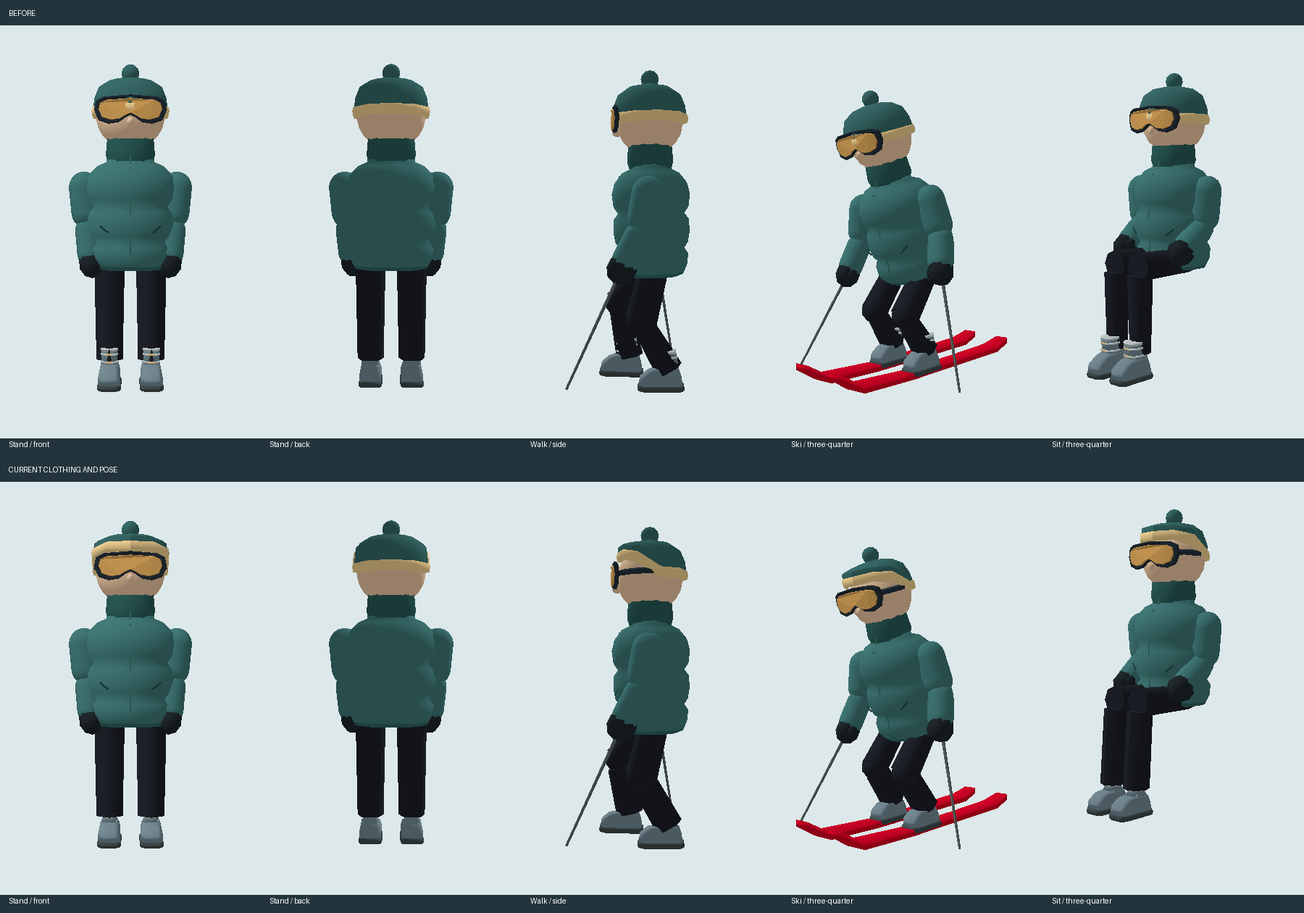
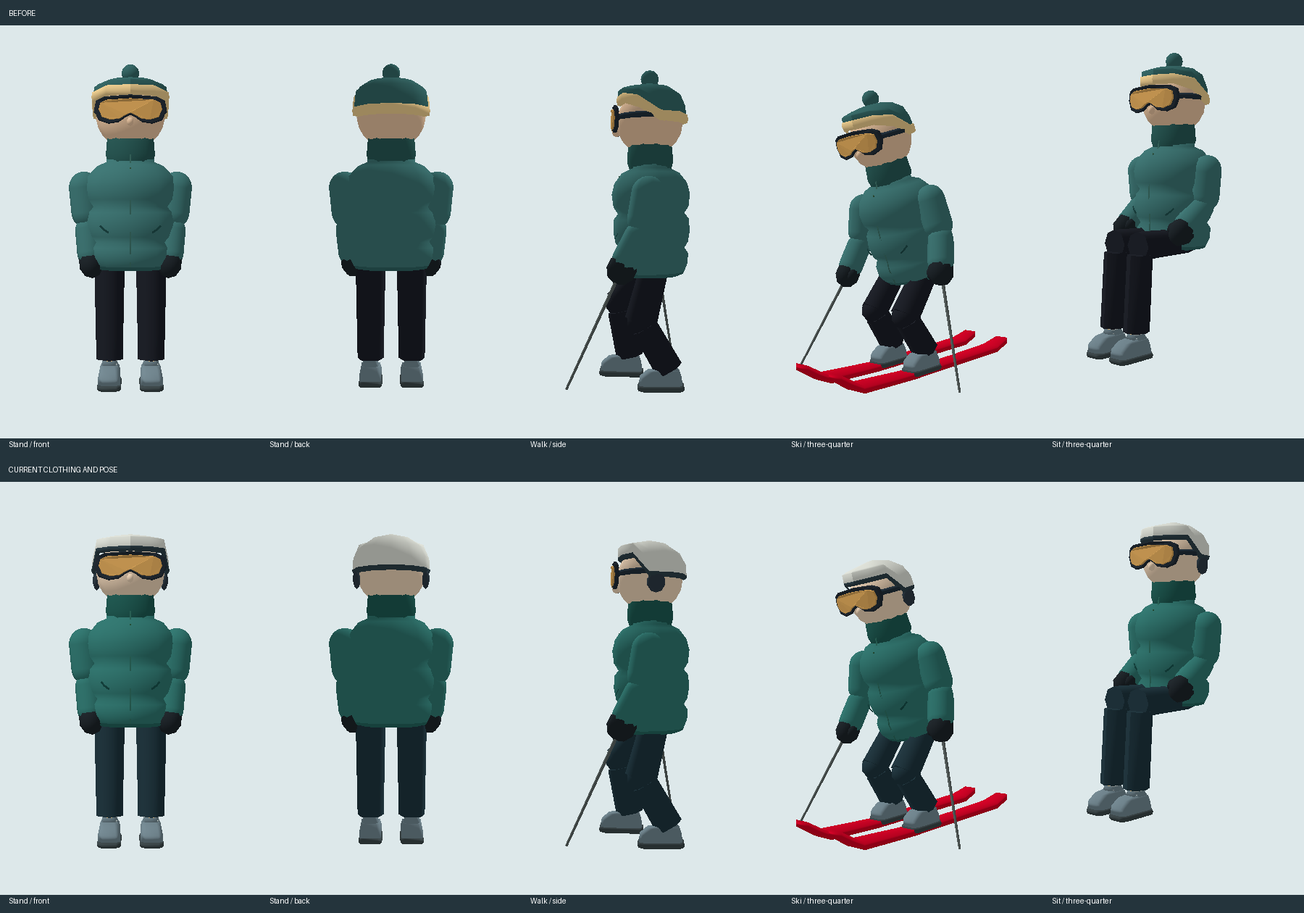
Add four coordinated skier outfits on the fitted shared rig

diff --git a/designs/skier-study.html b/designs/skier-study.html
@@ -6,23 +6,24 @@
 <script type="importmap">{"imports":{"three":"../assets/vendor/three/three.module.js"}}</script>
 </head>
 <body>
-<header><div><span class="eyebrow">V5 / SKIER STUDY 01</span><h1>A skier with winter clothes.</h1></div><a href="../empty-map.html">Back to the resort</a></header>
+<header><div><span class="eyebrow">V5 / SKIER OUTFITS</span><h1>Four skier outfits.</h1></div><a href="../empty-map.html">Back to the resort</a></header>
 <main>
 <section class="viewer" aria-label="Skier model comparison">
  <div class="toolbar"><div role="group" aria-label="Model"><button data-model="before" aria-pressed="false">Before</button><button data-model="after" aria-pressed="true">New skier</button></div><div role="group" aria-label="Pose"><button data-pose="stand" aria-pressed="true">Stand</button><button data-pose="walk" aria-pressed="false">Walk</button><button data-pose="ski" aria-pressed="false">Ski</button><button data-pose="seat" aria-pressed="false">Sit</button></div></div>
  <div class="toolbar secondary"><div role="group" aria-label="Viewpoint"><button data-view="front" aria-pressed="true">Front</button><button data-view="side" aria-pressed="false">Side</button><button data-view="back" aria-pressed="false">Back</button><button data-view="three" aria-pressed="false">Three-quarter</button><button data-view="face" aria-pressed="false">Face</button><button data-view="boots" aria-pressed="false">Boots</button></div><label><input id="animateSkier" type="checkbox" checked> Animate</label></div>
+ <div class="toolbar outfit-options" role="group" aria-label="Outfit"><button id="showOutfits" aria-pressed="false">All four</button><div id="outfitChoices"></div></div>
  <div id="firCanvas"></div>
  <div class="caption"><strong id="skierLabel">New skier</strong><span>Drag to orbit. Scroll to zoom.</span></div>
  <pre id="studyError" role="alert" hidden></pre>
 </section>
-<section class="notes"><p>Pose revision: the thighs rest on the seat, and the poles pivot at the hands and stay outside the skis. Before compares earlier clothing; both models use the current walking and skiing animation.</p><p>The poses use the game's walking and ski animation code. This study does not open or change a resort save. Browser performance and live lift clearance still need review.</p><details><summary>Show the geometry contact sheet</summary><p>Offline software rendering of the actual rig and mesh data, not an in-game screenshot.</p><img src="./data/skier-comparison.png" alt="Before and revised skier geometry shown standing, walking, skiing and sitting from several viewpoints"></details></section>
+<section class="notes"><p>Four coordinated outfits, one shared rig. Compare helmets and beanies in every pose, or show the full lineup.</p><p>The poses use the game's walking and ski animation code. This study does not open or change a resort save. Browser performance and live lift clearance still need review.</p><details><summary>Outfit contact sheet</summary><p>Offline software rendering of the same mesh data, not an in-game screenshot.</p><img src="./data/skier-outfits.png" alt="Four skier outfits shown standing, skiing and sitting"></details><details><summary>Before and after contact sheet</summary><p>Offline software rendering of the actual rig and mesh data, not an in-game screenshot.</p><img src="./data/skier-comparison.png" alt="Before and revised skier geometry shown standing, walking, skiing and sitting from several viewpoints"></details></section>
 </main>
 <script src="../src/resort/guest-boots.js?v=4.3.7"></script>
 <script src="../src/resort/ski-motion.js?v=5.0.4"></script>
 <script src="../src/resort/guest-animation.js?v=5.0.4"></script>
-<script src="./data/skier-before-model.js?v=5.0.3"></script>
-<script src="../src/resort/guest-model.js?v=5.0.4"></script>
-<script src="./data/skier-rig.js?v=5.0.2"></script>
+<script src="./data/skier-before-model.js?v=5.0.5"></script>
+<script src="../src/resort/guest-model.js?v=5.0.5"></script>
+<script src="./data/skier-rig.js?v=5.0.5"></script>
 <script src="./data/skier-poses.js?v=5.0.4"></script>
 <script type="module">
 import * as T from 'three';
@@ -33,21 +34,38 @@ window.addEventListener('error',e=>fail(e.error||e.message));window.addEventList
 try{
  const scene=new T.Scene();scene.background=new T.Color(0xe2eaf0);
  const camera=new T.PerspectiveCamera(34,1,.05,60),host=document.getElementById('firCanvas'),renderer=new T.WebGLRenderer({antialias:true});renderer.setPixelRatio(Math.min(devicePixelRatio,1.5));renderer.outputColorSpace=T.SRGBColorSpace;renderer.toneMapping=T.ACESFilmicToneMapping;renderer.toneMappingExposure=1.05;host.append(renderer.domElement);
- const controls=new OrbitControls(camera,renderer.domElement);controls.target.set(0,1.15,0);controls.minDistance=.8;controls.maxDistance=11;controls.maxPolarAngle=Math.PI*.51;controls.enableDamping=true;
+ const controls=new OrbitControls(camera,renderer.domElement);controls.target.set(0,1.15,0);controls.minDistance=.8;controls.maxDistance=40;controls.maxPolarAngle=Math.PI*.51;controls.enableDamping=true;
  scene.add(new T.HemisphereLight(0xebf3ff,0x76847b,2));const sun=new T.DirectionalLight(0xfff1dd,2.3);sun.position.set(-4,6,5);scene.add(sun);
  const floor=new T.Mesh(new T.PlaneGeometry(60,60),new T.MeshStandardMaterial({color:0xe4eaed,roughness:1}));floor.rotation.x=-Math.PI/2;floor.position.y=-.04;scene.add(floor);
- const models={before:window.LiftCoSkierStudyRig.create(T,{dress:window.LiftCoGuestModelBefore.dress}),after:window.LiftCoSkierStudyRig.create(T)};
- const poses={};for(const [name,s]of Object.entries(models)){scene.add(s.g);poses[name]=window.LiftCoSkierStudyPose.create(T,s,camera);}models.before.g.visible=false;
+ const styles=window.LiftCoGuestModel.styles,before=window.LiftCoSkierStudyRig.create(T,{dress:window.LiftCoGuestModelBefore.dress});
+ const variants=Object.fromEntries(styles.map(style=>[style.id,window.LiftCoSkierStudyRig.create(T,{style:style.id})])),models={before,...variants},poses={};
+ let selected=styles[0].id,mode='after',lineup=false,currentPose='stand';
+ for(const [name,s]of Object.entries(models)){scene.add(s.g);poses[name]=window.LiftCoSkierStudyPose.create(T,s,camera);}
  const chair=new T.Group(),seatM=new T.MeshStandardMaterial({color:0x667986,roughness:.85}),legM=new T.MeshStandardMaterial({color:0x485d66,metalness:.35,roughness:.7});
  function box(w,h,d,x,y,z,m){const o=new T.Mesh(new T.BoxGeometry(w,h,d),m);o.position.set(x,y,z);chair.add(o);}
  box(.78,.09,.60,0,.91,.18,seatM);box(.78,.63,.09,0,1.25,-.14,seatM);for(const x of [-.3,.3])for(const z of [-.05,.40])box(.045,.87,.045,x,.435,z,legM);scene.add(chair);chair.visible=false;
+ const chairs=[chair,...Array.from({length:3},()=>{const c=chair.clone();scene.add(c);return c;})];
  const views={front:[0,1.3,5.7],side:[5.7,1.3,0],back:[0,1.3,-5.7],three:[3.6,1.7,4.4],face:[0,2,1.35],boots:[.9,.4,.95]};
- function view(name){camera.position.set(...views[name]);controls.target.set(0,name==='face'?1.95:name==='boots'?.20:1.15,name==='boots'?.10:0);controls.update();for(const b of document.querySelectorAll('[data-view]'))b.setAttribute('aria-pressed',String(b.dataset.view===name));}
+ function sync(){
+  before.g.visible=mode==='before'&&!lineup;
+  styles.forEach((style,i)=>{const s=variants[style.id];s.g.visible=mode==='after'&&(lineup||style.id===selected);const x=lineup?(i-1.5)*1.8:0;if(s.g.position.x!==x){s.g.position.x=x;s.bodyMotion=null;}});
+  chairs.forEach((c,i)=>{c.visible=currentPose==='seat'&&(lineup||i===0);c.position.x=lineup?(i-1.5)*1.8:0;});
+  for(const b of document.querySelectorAll('[data-model]'))b.setAttribute('aria-pressed',String(b.dataset.model===mode));
+  for(const b of document.querySelectorAll('[data-outfit]'))b.setAttribute('aria-pressed',String(!lineup&&mode==='after'&&b.dataset.outfit===selected));
+  document.getElementById('showOutfits').setAttribute('aria-pressed',String(lineup));
+  const style=styles.find(s=>s.id===selected);document.getElementById('skierLabel').textContent=lineup?'Four coordinated outfits':mode==='before'?'Before':style.name+' / '+(style.headwear==='helmet'?'helmet':'beanie');
+ }
+ function view(name){lineup=false;sync();camera.position.set(...views[name]);controls.target.set(0,name==='face'?1.95:name==='boots'?.20:1.15,name==='boots'?.10:0);controls.update();for(const b of document.querySelectorAll('[data-view]'))b.setAttribute('aria-pressed',String(b.dataset.view===name));}
+ for(const style of styles){
+  const b=document.createElement('button');b.textContent=style.name;b.dataset.outfit=style.id;b.style.setProperty('--swatch','#'+style.jacket.toString(16).padStart(6,'0'));b.setAttribute('aria-pressed',String(style.id===selected));b.addEventListener('click',()=>{selected=style.id;mode='after';if(lineup)view('front');else{lineup=false;sync();}});document.getElementById('outfitChoices').append(b);
+ }
+ function fitLineup(){const distance=Math.max(7.5,3.6/(Math.tan(T.MathUtils.degToRad(camera.fov)/2)*camera.aspect));camera.position.set(0,1.65,distance);controls.target.set(0,1.15,0);controls.update();}
+ document.getElementById('showOutfits').addEventListener('click',()=>{if(lineup){view('front');return;}lineup=true;mode='after';sync();fitLineup();for(const b of document.querySelectorAll('[data-view]'))b.setAttribute('aria-pressed','false');});
  for(const b of document.querySelectorAll('[data-view]'))b.addEventListener('click',()=>view(b.dataset.view));
- for(const b of document.querySelectorAll('[data-model]'))b.addEventListener('click',()=>{for(const [name,s]of Object.entries(models))s.g.visible=name===b.dataset.model;for(const button of document.querySelectorAll('[data-model]'))button.setAttribute('aria-pressed',String(button===b));document.getElementById('skierLabel').textContent=b.dataset.model==='after'?'New skier':'Before';});
- for(const b of document.querySelectorAll('[data-pose]'))b.addEventListener('click',()=>{for(const p of Object.values(poses))p.set(b.dataset.pose);chair.visible=b.dataset.pose==='seat';for(const button of document.querySelectorAll('[data-pose]'))button.setAttribute('aria-pressed',String(button===b));});
- new ResizeObserver(()=>{const r=host.getBoundingClientRect();camera.aspect=r.width/r.height;camera.updateProjectionMatrix();renderer.setSize(r.width,r.height);}).observe(host);
- const clock=new T.Clock();view('front');renderer.setAnimationLoop(()=>{const dt=Math.min(clock.getDelta(),.05);if(document.getElementById('animateSkier').checked)for(const p of Object.values(poses))p.update(dt);controls.update();renderer.render(scene,camera);});
+ for(const b of document.querySelectorAll('[data-model]'))b.addEventListener('click',()=>{mode=b.dataset.model;if(lineup)view('front');else sync();});
+ for(const b of document.querySelectorAll('[data-pose]'))b.addEventListener('click',()=>{currentPose=b.dataset.pose;for(const p of Object.values(poses))p.set(currentPose);sync();for(const button of document.querySelectorAll('[data-pose]'))button.setAttribute('aria-pressed',String(button===b));});
+ new ResizeObserver(()=>{const r=host.getBoundingClientRect();camera.aspect=r.width/r.height;camera.updateProjectionMatrix();renderer.setSize(r.width,r.height);if(lineup)fitLineup();}).observe(host);
+ const clock=new T.Clock();view('front');renderer.setAnimationLoop(()=>{const dt=Math.min(clock.getDelta(),.05);if(document.getElementById('animateSkier').checked)for(const [key,p]of Object.entries(poses))if(models[key].g.visible)p.update(dt);controls.update();renderer.render(scene,camera);});
 }catch(e){fail(e);}
 </script>
 </body></html>

diff --git a/src/resort/guest-model.js b/src/resort/guest-model.js
@@ -2,6 +2,13 @@
 window.LiftCoGuestModel=(()=>{
  'use strict';
  const caches=new WeakMap();
+ const styles=Object.freeze([
+  {id:'spruce',name:'Spruce',jacket:0x367c75,pants:0x263c45,headwear:'helmet',hat:0xe5e8df,band:0x34464e,cut:'trim'},
+  {id:'ember',name:'Ember',jacket:0xc66b45,pants:0x29313e,headwear:'pom',hat:0x384f62,band:0xe4ca9a,cut:'roomy'},
+  {id:'alpine',name:'Alpine',jacket:0x739db3,pants:0x24364b,headwear:'helmet',hat:0x253d50,band:0xd0d8d9,cut:'regular'},
+  {id:'berry',name:'Berry',jacket:0x805271,pants:0xc2c4b6,headwear:'beanie',hat:0xe7dbbe,band:0x8f566f,cut:'trim'}
+ ].map(Object.freeze));
+ function appearanceKey(ticket){let n=(ticket>>>0)^0x9e3779b9;n=Math.imul(n^(n>>>16),0x85ebca6b);n=Math.imul(n^(n>>>13),0xc2b2ae35);return(n^(n>>>16))>>>0;}
  function library(T){
   if(caches.has(T))return caches.get(T);
   function merge(parts){
@@ -58,15 +65,33 @@ window.LiftCoGuestModel=(()=>{
    }
    g.computeVertexNormals();return g;
   }
+  const coats=new Map([['regular',jacket]]);
+  function coatCut(cut){
+   if(coats.has(cut))return coats.get(cut);
+   const g=jacket.clone(),p=g.attributes.position,n=g.attributes.normal,[width,depth]=cut==='roomy'?[1.035,1.03]:[.965,.985];
+   for(let i=0;i<p.count;i++){
+    const x=p.getX(i),y=p.getY(i),z=p.getZ(i),t=T.MathUtils.clamp((y-.28)/.09,0,1),w=1-t*t*(3-2*t),dw=-6*t*(1-t)/.09;
+    const sx=1+(width-1)*w,sz=1+(depth-1)*w,nx=n.getX(i)/sx,nz=n.getZ(i)/sz,ny=n.getY(i)-x*(width-1)*dw*nx-z*(depth-1)*dw*nz,len=Math.hypot(nx,ny,nz);
+    p.setXYZ(i,x*sx,y,z*sz);n.setXYZ(i,nx/len,ny/len,nz/len);
+   }
+   g.computeBoundingBox();g.computeBoundingSphere();coats.set(cut,g);return g;
+  }
   const hats=new Map();
-  function hat(color){
-   const key=color.getHex();if(hats.has(key))return hats.get(key);
-   const dye=color.clone().multiplyScalar(.78);
+  function hat(style){
+   const key=[style.headwear,style.hat,style.band].join(':');if(hats.has(key))return hats.get(key);
+   const dye=new T.Color(style.hat),bandColor=new T.Color(style.band);
+   if(style.headwear==='helmet'){
+    const shell=lathe([[-.032,.255],[-.005,.278],[.07,.273],[.15,.230],[.215,.135],[.242,.03],[.244,0]],12);shell.scale(1,1,.96);
+    const edge=lathe([[-.04,.252],[-.032,.274],[-.012,.281],[.001,.271]],12);edge.scale(1,1,.96);
+    const pads=[-1,1].map(side=>{const g=new T.SphereGeometry(.056,8,5);g.scale(.50,1.3,1.15);g.translate(side*.245,-.076,-.045);return g;});
+    const g=merge([[fitBrim(shell),dye],[fitBrim(edge,true),bandColor],[pads[0],0x34414b],[pads[1],0x34414b]]);hats.set(key,g);return g;
+   }
    const dome=lathe([[-.015,.267],[.015,.278],[.09,.268],[.17,.235],[.22,.16],[.24,.065],[.242,0]]);
    dome.scale(1,1,.96);
    const band=lathe([[-.042,.252],[-.035,.284],[-.005,.29],[.025,.284],[.033,.264]]);band.scale(1,1,.96);
    const pom=new T.SphereGeometry(.065,8,6);pom.translate(0,.28,-.007);
-   const g=merge([[fitBrim(dome),dye],[fitBrim(band,true),0xf1d193],[pom,dye]]);hats.set(key,g);return g;
+   const parts=[[fitBrim(dome),dye],[fitBrim(band,true),bandColor]];if(style.headwear==='pom')parts.push([pom,dye]);else pom.dispose();
+   const g=merge(parts);hats.set(key,g);return g;
   }
   const sleeve=new T.CapsuleGeometry(.115,.18,3,7),forearm=new T.CapsuleGeometry(.099,.17,3,7);
   const mittens=[-1,1].map(side=>{
@@ -88,23 +113,25 @@ window.LiftCoGuestModel=(()=>{
    if(bp.getY(i)>.052)bp.setY(i,.052+(bp.getY(i)-.052)*.5);
   }
   boot.computeVertexNormals();boot.computeBoundingBox();boot.computeBoundingSphere();
-  const data={jacket,heads,hat,sleeve,forearm,mittens,thigh,shin,leg,thighDetail,shinDetail,knee,boot};caches.set(T,data);return data;
+  const data={jacket,coatCut,heads,hat,sleeve,forearm,mittens,thigh,shin,leg,thighDetail,shinDetail,knee,boot};caches.set(T,data);return data;
  }
- function dress(T,s,{helmet}){
+ function dress(T,s,{helmet,style}){
   s.seatVisualLift=.15;
-  const a=library(T),replace=(mesh,geometry)=>{mesh.geometry.dispose();mesh.geometry=geometry;};
-  replace(s.torso,a.jacket);s.torso.material.vertexColors=true;s.torso.material.needsUpdate=true;
-  replace(s.head,a.heads[(s.ticket>>>0)%a.heads.length]);s.head.material.color.set(0xffffff);s.head.material.vertexColors=true;s.head.material.needsUpdate=true;
-  replace(helmet,a.hat(s.torso.material.color));helmet.material.color.set(0xffffff);helmet.material.vertexColors=true;helmet.material.roughness=.88;helmet.material.needsUpdate=true;
+  const key=(s.appearanceKey??=appearanceKey(s.ticket)),look=styles.find(look=>look.id===(style||s.outfitStyle))||styles[key%styles.length];s.outfitStyle=look.id;
+  const a=library(T),replace=(mesh,geometry)=>{if(mesh.geometry!==geometry){mesh.geometry.dispose();mesh.geometry=geometry;}};
+  replace(s.torso,a.coatCut(look.cut));s.torso.material.color.set(look.jacket);s.torso.material.vertexColors=true;s.torso.material.needsUpdate=true;
+  replace(s.head,a.heads[(key>>>8)%a.heads.length]);s.head.material.color.set(0xffffff);s.head.material.vertexColors=true;s.head.material.needsUpdate=true;
+  replace(helmet,a.hat(look));helmet.material.color.set(0xffffff);helmet.material.vertexColors=true;helmet.material.roughness=look.headwear==='helmet'?.54:.88;helmet.material.needsUpdate=true;
   // Headwear is a cosmetic child of the driven head, so it cannot cut through turning goggles.
   if(helmet.parent!==s.head){helmet.position.sub(s.head.position);s.head.add(helmet);}
-  const originalBoot=s.bootGeometry;s.g.traverse(mesh=>{if(mesh.geometry===originalBoot)mesh.geometry=a.boot;});s.bootGeometry=a.boot;originalBoot.dispose();
+  const originalBoot=s.bootGeometry;s.g.traverse(mesh=>{if(mesh.geometry===originalBoot)mesh.geometry=a.boot;});s.bootGeometry=a.boot;if(originalBoot!==a.boot)originalBoot.dispose();
   for(const {arm,elbow,side}of s.arms){
-   replace(arm.children[0],a.sleeve);replace(elbow.children[0],a.forearm);replace(elbow.children[1],a.mittens[side>0?1:0]);
+   arm.children[0].material.color.set(look.jacket);replace(arm.children[0],a.sleeve);replace(elbow.children[0],a.forearm);replace(elbow.children[1],a.mittens[side>0?1:0]);
   }
+  s.skiRig.parts[0].thigh.material.color.set(look.pants);
   for(const part of s.skiRig.parts){replace(part.thigh,a.thighDetail);replace(part.shin,a.shinDetail);replace(part.kneecap,a.knee);}
   for(let i=0;i<s.skiRig.original.children.length;i+=2)replace(s.skiRig.original.children[i],a.leg);
   for(let i=0;i<s.seatedLegs.children.length;i+=3){replace(s.seatedLegs.children[i],a.thigh);replace(s.seatedLegs.children[i+1],a.shin);}
  }
- return{dress};
+ return{dress,styles};
 })();

diff --git a/designs/data/skier-before-model.js b/designs/data/skier-before-model.js
@@ -49,6 +49,15 @@ window.LiftCoGuestModelBefore=(()=>{
    const nose=new T.SphereGeometry(.031,7,5);nose.scale(.8,1,1);nose.translate(0,-.066,.239);
    return merge([[face,skin],[nose,skin],[strap,0x283641],[goggles(),0x28313a],[goggles(true),0xd9a65b]]);
   });
+  // Cut the front of the knit brim above the frame, while keeping coverage at the ears/back.
+  function fitBrim(g,band=false){
+   const p=g.attributes.position;
+   for(let i=0;i<p.count;i++){
+    const y=p.getY(i),front=T.MathUtils.smoothstep(p.getZ(i),0,.12),fade=band?1:1-T.MathUtils.smoothstep(y,.025,.242);
+    p.setY(i,y+.135*front*fade);p.setZ(i,p.getZ(i)*(1-.16*front*fade));
+   }
+   g.computeVertexNormals();return g;
+  }
   const hats=new Map();
   function hat(color){
    const key=color.getHex();if(hats.has(key))return hats.get(key);
@@ -57,7 +66,7 @@ window.LiftCoGuestModelBefore=(()=>{
    dome.scale(1,1,.96);
    const band=lathe([[-.042,.252],[-.035,.284],[-.005,.29],[.025,.284],[.033,.264]]);band.scale(1,1,.96);
    const pom=new T.SphereGeometry(.065,8,6);pom.translate(0,.28,-.007);
-   const g=merge([[dome,dye],[band,0xf1d193],[pom,dye]]);hats.set(key,g);return g;
+   const g=merge([[fitBrim(dome),dye],[fitBrim(band,true),0xf1d193],[pom,dye]]);hats.set(key,g);return g;
   }
   const sleeve=new T.CapsuleGeometry(.115,.18,3,7),forearm=new T.CapsuleGeometry(.099,.17,3,7);
   const mittens=[-1,1].map(side=>{
@@ -66,15 +75,30 @@ window.LiftCoGuestModelBefore=(()=>{
    return merge([[palm,0xffffff],[thumb,0xffffff]]);
   });
   const thigh=new T.CylinderGeometry(.105,.095,.54,8);thigh.rotateX(Math.PI/2);
-  const shin=new T.CylinderGeometry(.092,.077,.56,8);
-  const leg=new T.CylinderGeometry(.115,.10,.70,5),thighDetail=new T.CylinderGeometry(.115,.10,1,6),shinDetail=new T.CylinderGeometry(.10,.077,1,6),knee=new T.SphereGeometry(.10,7,5);
-  const data={jacket,heads,hat,sleeve,forearm,mittens,thigh,shin,leg,thighDetail,shinDetail,knee};caches.set(T,data);return data;
+  // The seated visible shin slopes into the boot shaft, rather than ending behind it.
+  const shin=new T.CylinderGeometry(.092,.095,.55,8);shin.translate(0,.005,0);
+  for(let i=0;i<shin.attributes.position.count;i++){const y=shin.attributes.position.getY(i);shin.attributes.position.setZ(i,shin.attributes.position.getZ(i)+(.28-y)/.55*.04);}
+  shin.computeVertexNormals();
+  const leg=new T.CylinderGeometry(.115,.10,.70,5),thighDetail=new T.CylinderGeometry(.115,.10,1,6),shinDetail=new T.CylinderGeometry(.10,.095,.86,6).translate(0,.07,0),knee=new T.SphereGeometry(.10,7,5);
+  // Tuck only the upper boot shaft under the trouser cuff. Sole, toe and contact vertices stay fixed.
+  const boot=window.LiftCoGuestBoots.geometry(T),bp=boot.attributes.position;
+  for(let i=0;i<bp.count;i++){
+   const amount=T.MathUtils.smoothstep(bp.getY(i),.052,.10),z=bp.getZ(i);
+   bp.setX(i,bp.getX(i)*(1-.16*amount));bp.setZ(i,z*(1-(z>0?.61:.20)*amount));
+   if(bp.getY(i)>.052)bp.setY(i,.052+(bp.getY(i)-.052)*.5);
+  }
+  boot.computeVertexNormals();boot.computeBoundingBox();boot.computeBoundingSphere();
+  const data={jacket,heads,hat,sleeve,forearm,mittens,thigh,shin,leg,thighDetail,shinDetail,knee,boot};caches.set(T,data);return data;
  }
  function dress(T,s,{helmet}){
+  s.seatVisualLift=.15;
   const a=library(T),replace=(mesh,geometry)=>{mesh.geometry.dispose();mesh.geometry=geometry;};
   replace(s.torso,a.jacket);s.torso.material.vertexColors=true;s.torso.material.needsUpdate=true;
   replace(s.head,a.heads[(s.ticket>>>0)%a.heads.length]);s.head.material.color.set(0xffffff);s.head.material.vertexColors=true;s.head.material.needsUpdate=true;
   replace(helmet,a.hat(s.torso.material.color));helmet.material.color.set(0xffffff);helmet.material.vertexColors=true;helmet.material.roughness=.88;helmet.material.needsUpdate=true;
+  // Headwear is a cosmetic child of the driven head, so it cannot cut through turning goggles.
+  if(helmet.parent!==s.head){helmet.position.sub(s.head.position);s.head.add(helmet);}
+  const originalBoot=s.bootGeometry;s.g.traverse(mesh=>{if(mesh.geometry===originalBoot)mesh.geometry=a.boot;});s.bootGeometry=a.boot;originalBoot.dispose();
   for(const {arm,elbow,side}of s.arms){
    replace(arm.children[0],a.sleeve);replace(elbow.children[0],a.forearm);replace(elbow.children[1],a.mittens[side>0?1:0]);
   }

diff --git a/designs/data/skier-rig.js b/designs/data/skier-rig.js
@@ -1,5 +1,5 @@
 /* Generated from makeSkier in empty-map.html. Study only, no resort or save access. */
-window.LiftCoSkierStudyRig={create(THREE,{dress=window.LiftCoGuestModel.dress,color=0x437b79}={}){
+window.LiftCoSkierStudyRig={create(THREE,{dress=window.LiftCoGuestModel.dress,color=0x437b79,style}={}){
 const scene=new THREE.Scene(),lifts=[],skiers=[],JACKETS=[color];let nextTicket=0;
 function makeSkier() {
   const g = new THREE.Group();
@@ -46,7 +46,7 @@ function makeSkier() {
   seatedLegs.visible=false;g.add(seatedLegs);
   scene.add(g);
   const skier={ g, legs, seatedLegs, bootGeometry, bootMaterial, torso, head, skis, upperBody, arms, state: 'arrive', t: Math.random() * 10, qi: -1, chair: -1, seat: -1, u: 0, x: 0, z: 0, speed: 6 + Math.random() * 2.5, wob: Math.random() * 10, liftIndex: lifts.length?skiers.length % lifts.length:0, ticket: nextTicket++, route: null, distance: 0 };
-  window.LiftCoSkiMotion.attachRig(THREE,skier);dress(THREE,skier,{helmet:helm});return skier;
+  window.LiftCoSkiMotion.attachRig(THREE,skier);dress(THREE,skier,{helmet:helm,style});return skier;
 }
 
 const s=makeSkier();s.skiSeed=5100;return s;

diff --git a/src/styles/skier-study.css b/src/styles/skier-study.css
@@ -1,1 +1,3 @@
 .secondary{border-top:0;background:#f1f5f6;padding-top:8px;padding-bottom:8px}.secondary label{display:flex;align-items:center;gap:8px;min-height:44px;padding:0 10px;font-size:14px}.secondary input{width:18px;height:18px;accent-color:#294b59}.secondary button{font-weight:400}#firCanvas{height:clamp(380px,65vh,760px)}@media(max-width:650px){.secondary>div{flex-basis:100%}.secondary label{margin-left:auto}}
+
+.outfit-options{justify-content:flex-start;background:#f7f9fa}.outfit-options #outfitChoices{display:flex;gap:6px;flex-wrap:wrap}.outfit-options [data-outfit]{display:inline-flex;align-items:center;gap:8px}.outfit-options [data-outfit]::before{content:"";width:12px;height:12px;border:1px solid #ffffff80;border-radius:50%;background:var(--swatch);flex-shrink:0}@media(max-width:650px){.outfit-options #outfitChoices{display:grid;grid-template-columns:repeat(2,minmax(0,1fr));width:100%}}

diff --git a/empty-map.html b/empty-map.html
@@ -113,7 +113,7 @@
 <script src="./src/resort/shuttle.js?v=village-polish-2"></script>
 <script src="./src/resort/village-tools.js?v=4.2.3"></script>
 <script src="./src/resort/operations.js?v=4.3.0"></script>
-<script src="./src/resort/guest-model.js?v=5.0.4"></script>
+<script src="./src/resort/guest-model.js?v=5.0.5"></script>
 <script src="./src/resort/guest-boots.js?v=4.3.7"></script>
 <script src="./src/resort/ski-motion.js?v=5.0.4"></script>
 <script src="./src/resort/guest-animation.js?v=5.0.4"></script>

diff --git a/tools/render-skier-study.py b/tools/render-skier-study.py
@@ -31,3 +31,11 @@ for row,name in enumerate(['before','after']):
  for col,(mode,label,eye)in enumerate(views):
   image=render(data['models'][name][mode],eye);canvas.paste(image,(col*360,row*630+35));draw.text((col*360+12,row*630+607),label,fill='white')
 path=root/'designs/data/skier-comparison.png';canvas.save(path);print(path.relative_to(root))
+
+looks=[('spruce','Spruce / helmet'),('ember','Ember / pom beanie'),('alpine','Alpine / helmet'),('berry','Berry / plain beanie')]
+canvas=Image.new('RGB',(1440,1890),'#24343c');draw=ImageDraw.Draw(canvas)
+for row,(mode,label,eye)in enumerate([('stand','STANDING',(1.2,1.4,5.1)),('ski','SKIING',(3.7,1.65,4.1)),('seat','SEATED',(3.7,1.65,4.1))]):
+ draw.text((12,row*630+12),label,fill='white')
+ for col,(key,name)in enumerate(looks):
+  canvas.paste(render(data['models'][key][mode],eye),(col*360,row*630+35));draw.text((col*360+12,row*630+607),name,fill='white')
+path=root/'designs/data/skier-outfits.png';canvas.save(path);print(path.relative_to(root))

diff --git a/tools/build-skier-study.py b/tools/build-skier-study.py
@@ -7,9 +7,9 @@ start=text.index('function makeSkier()')
 end=text.index('function spawnSkier()',start)
 source=text[start:end]
 assert source.count('window.LiftCoGuestModel.dress(THREE,skier,{helmet:helm});')==1
-source=source.replace('window.LiftCoGuestModel.dress(THREE,skier,{helmet:helm});','dress(THREE,skier,{helmet:helm});')
+source=source.replace('window.LiftCoGuestModel.dress(THREE,skier,{helmet:helm});','dress(THREE,skier,{helmet:helm,style});')
 output='''/* Generated from makeSkier in empty-map.html. Study only, no resort or save access. */
-window.LiftCoSkierStudyRig={create(THREE,{dress=window.LiftCoGuestModel.dress,color=0x437b79}={}){
+window.LiftCoSkierStudyRig={create(THREE,{dress=window.LiftCoGuestModel.dress,color=0x437b79,style}={}){
 const scene=new THREE.Scene(),lifts=[],skiers=[],JACKETS=[color];let nextTicket=0;
 '''+source+'''
 const s=makeSkier();s.skiSeed=5100;return s;

diff --git a/docs/v5-plan.md b/docs/v5-plan.md
@@ -10,6 +10,7 @@ V5 is an aesthetic checkpoint: original snow-covered trees, finished stylized gu
 - [x] Tree study 01: revise only fir variant 1; preserve the other five; provide before/after and three camera viewpoints. Browser acceptance remains pending.
 - [ ] Trees: revise the first prototype against research revision 2; validate ground, cabin and overview silhouettes before deriving six accepted variants.
 - [x] Skier study 01: one padded clothing prototype on the existing rig, with before/after and standing/walking/skiing/seated comparisons. Browser acceptance remains pending.
+- [x] Skier variations: four coordinated helmet/beanie outfits, three subtle coat cuts and a lineup preview. Browser acceptance remains pending.
 - [ ] Skiers: revise padded body volume, goggle frame and headwear against research revision 2; retain all rig anchors and validate standing/skiing/seated views.
 - [ ] UI: study a light compact direction using Pinebrook grouping and Ski-E-O status hierarchy. Preserve IDs and all functions. The earlier slate-only choice is superseded.
 - [ ] Verify syntax, dependency availability, rig/scenery invariants and V4 document loading with focused checks.
@@ -86,3 +87,13 @@ Initial direction, not accepted: snow-laden, irregular alpine firs; friendly pad
 - Updated the study's seated pose, cache tags, notes and offline comparison. Earlier clothing remains the Before model, with the same current animation used for both versions. No additional meshes, triangles or materials.
 - Focused checks use the actual updateSkierEquipment function: seated thigh undersides meet the study seat top, seated ski tops meet the boot soles, and boarding/unloading blend and walking reset restore the expected offsets. Sampled 640 ski poses across lean, braking, skating and phase: grip endpoints coincide with hands, no inward-pointing shaft, no sampled leg-capsule hit and no crossing within the ski-height/width bounds. Script syntax, HTTP dependencies and diff checks pass. No repository test suite added or run.
 - Offline images inspected; live WebGL, every lift-cabin clearance and device frame rate remain pending. Commit/push this visual pose correction only. VPS untouched.
+
+
+### Four coordinated skier variations
+
+- User approved adding variety on the corrected base. Added Spruce (teal/slate, ivory helmet), Ember (rust/charcoal, navy pom beanie), Alpine (blue/navy, dark helmet) and Berry (plum/stone, cream plain beanie). Three coat cuts vary width/depth by at most 3.5% below the collar; face fit, sleeves, trouser cuffs, boots and joint origins retain the corrected base. Helmet ear pads, shell and trim merge into the existing headwear mesh.
+- All choices are original code-native geometry/colors. Outfit/face selection hashes the guest's existing initial ticket and caches that appearance on the runtime guest; no explicit random selection calls, new route choices or saved fields. Queue-ticket changes do not recolor a person. Existing shirt/sleeve and trouser materials receive coordinated colors. No tree, UI skin, lift/station, simulation or save-schema changes.
+- Updated designs/skier-study.html with individual outfit selectors and an All four toggle. The lineup shares the walking/skiing/seated poses and gives each seated guest a study support. Framing adjusts for narrow/tablet/desktop aspect ratios; hidden models do not animate. Earlier accepted clothing remains the Before comparison. Added the generated outfit contact sheet and updated its rig/export/render tools.
+- Focused isolated checks cover all four looks across standing, walking, skiing and seated animation: driven transforms and boot geometry match the prior base. Each style passes five tested hat/goggle head-turn clearances. A 120-guest sample produces all four outfits, three cached coat geometries, four headwear geometries and four face palettes; every rig retains 31 meshes and nine materials. Appearance remains stable after ticket changes and reapplication. Seat/pole geometry checks still pass.
+- Visible ski triangle counts: Spruce/Alpine 3,236; Ember 3,172; Berry 3,092, versus the prior 3,172. Helmets add 64 triangles, the plain beanie removes 80; no extra meshes/materials or new textures. No measured FPS claim. Inspected offline standing/skiing/seated outfit sheet; actual WebGL/device acceptance remains pending because browser inventory is empty.
+- Modified JS/Python syntax, source regeneration, local HTTP resource availability, lineup framing bounds and diff checks pass. Game entrypoint changes only the guest-model cache query. No repository test suite added or run. Commit/push this outfit work separately; VPS untouched.
